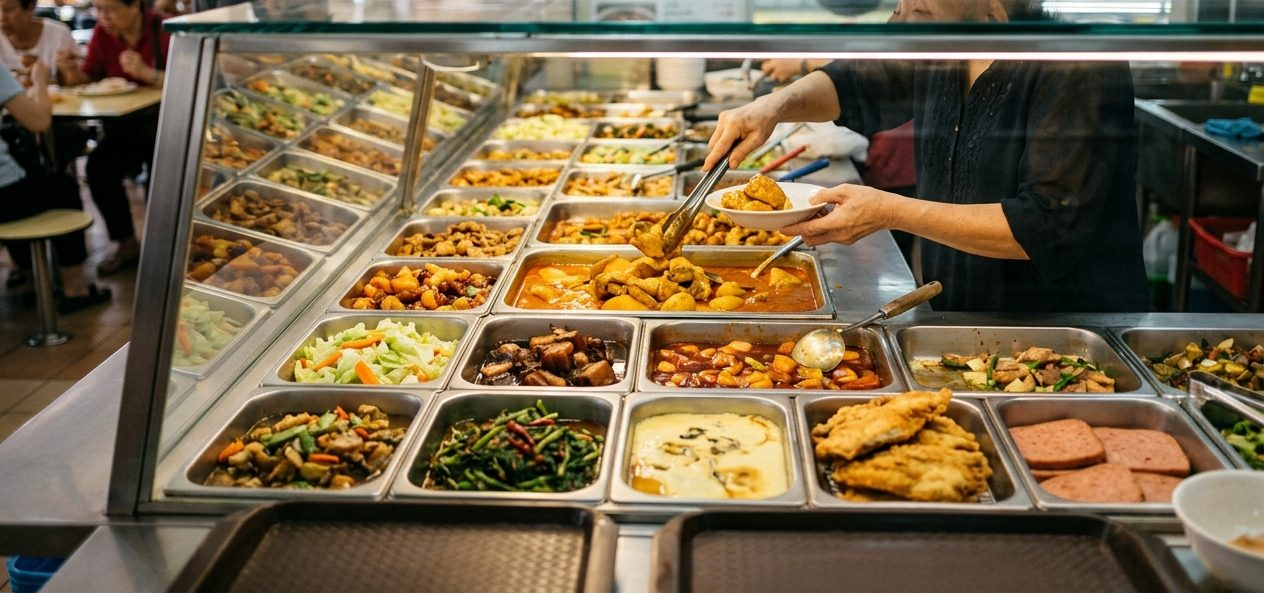
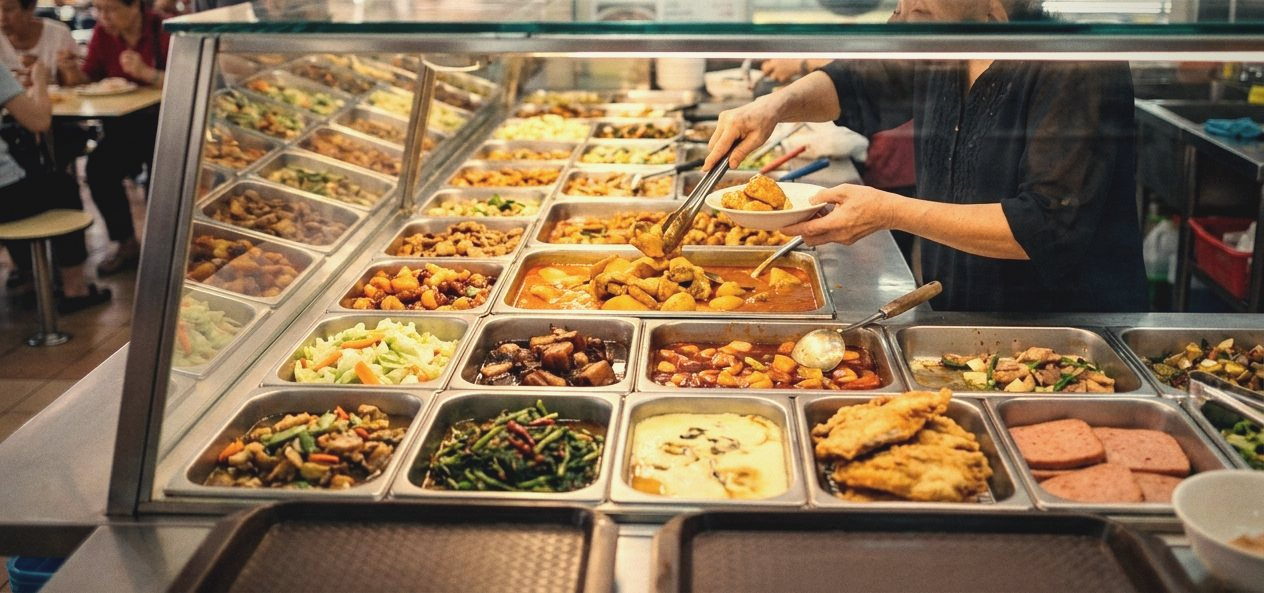
feat: chicken rice illustrations, consistent photo grade

diff --git a/app/lib/blog-posts.ts b/app/lib/blog-posts.ts
@@ -396,6 +396,8 @@ Before the decisions, a quick map of the meal. Hainanese chicken rice is four th
 
 Every element is load-bearing. Remove one and the dish collapses. But the first and most important decision — the one you make before you even reach the counter — is the chicken.
 
+![A plate of Hainanese chicken rice with soup and three sauces on a hawker centre table](/images/blog/chicken-rice-set.jpg "Illustration created with AI.")
+
 ## Decision one: which chicken
 
 This is where the fork in the road appears, and where most tourists accidentally choose.
@@ -450,6 +452,8 @@ The correct technique: dip the chicken in chilli. Add a small smear of ginger. D
 
 No fixed ratio. No fixed proportion. Chicken rice is a personal document — everyone calibrates their plate slightly differently, and after a few visits you will find your version.
 
+![Three saucers of chilli, ginger and dark soy beside a plate of chicken rice](/images/blog/chicken-rice-sauces.jpg "Illustration created with AI.")
+
 ## The soup
 
 It arrives in a small bowl. Clear. Light gold. A few slices of winter melon or silken tofu at the bottom, sometimes a scattering of spring onion.
@@ -463,6 +467,8 @@ The soup is not a side. It is the quiet centre of the dish.
 ## What to say at the stall
 
 The chicken rice stall counter is direct and efficient. You walk up. The auntie or uncle behind the counter looks at you — sometimes with a nod, sometimes without even that. The entire transaction should take under thirty seconds.
+
+![A hawker chopping poached chicken at a chicken rice stall, whole chickens hanging in the display](/images/blog/chicken-rice-stall.jpg "Illustration created with AI.")
 
 Here is the line:
 

diff --git a/app/blog/[slug]/page.tsx b/app/blog/[slug]/page.tsx
@@ -124,7 +124,12 @@ function renderArticleBody(markdown: string) {
               <img
                 src={imgSrc}
                 alt={imgAlt}
-                className="w-full h-64 sm:h-80 object-cover"
+                loading="lazy"
+                className={
+                  caption
+                    ? "w-full h-auto"
+                    : "w-full h-64 sm:h-80 object-cover"
+                }
               />
             )}
           </div>
